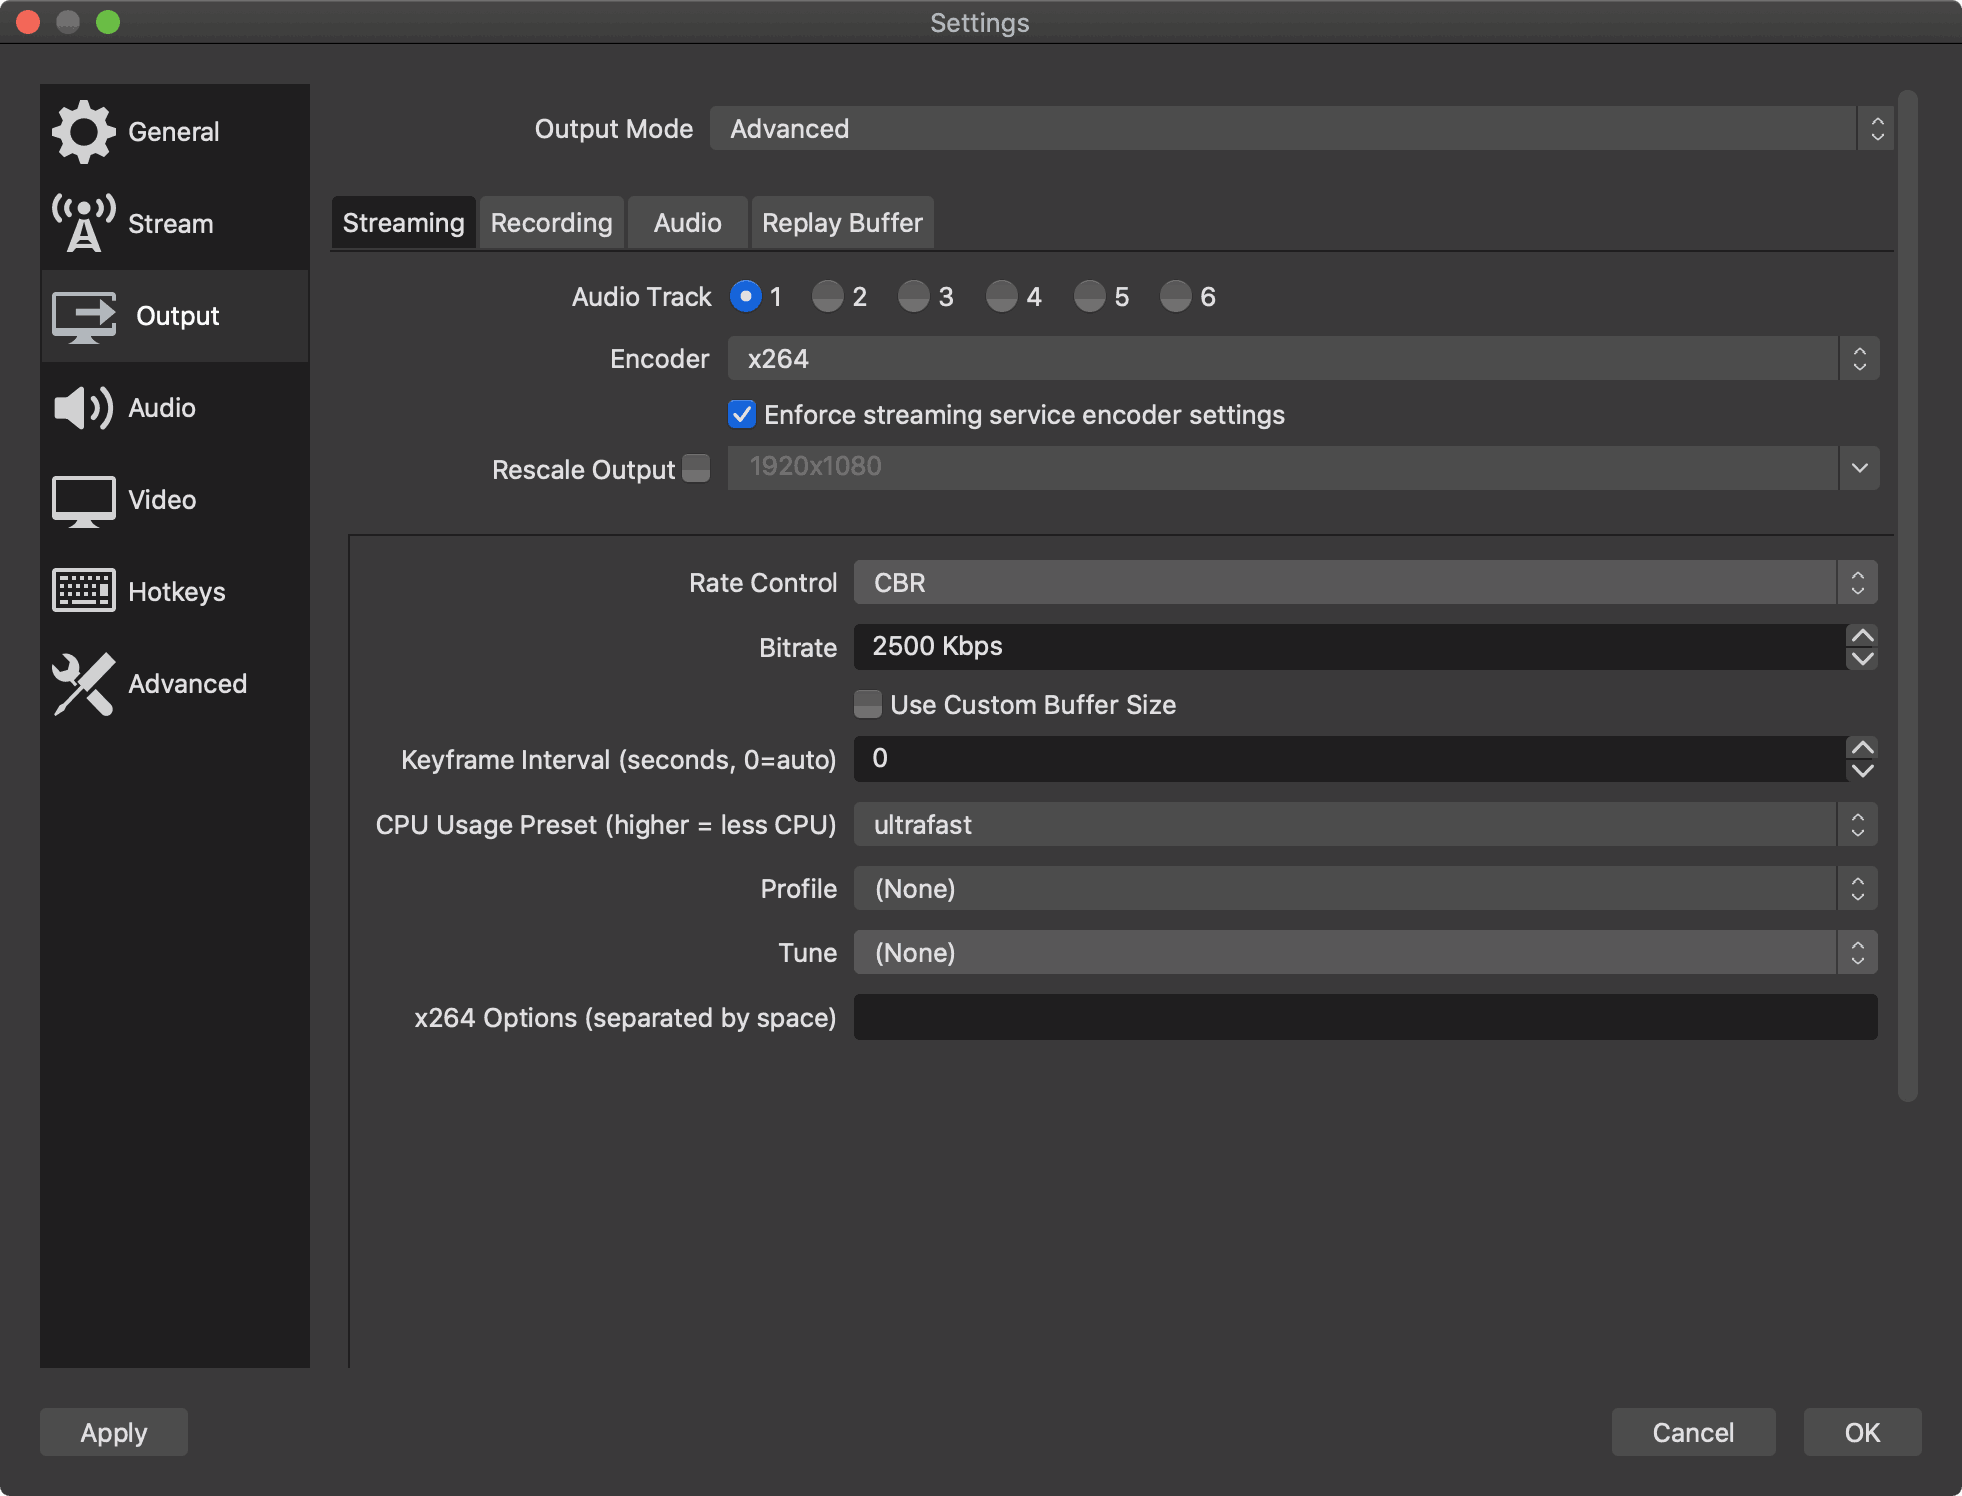
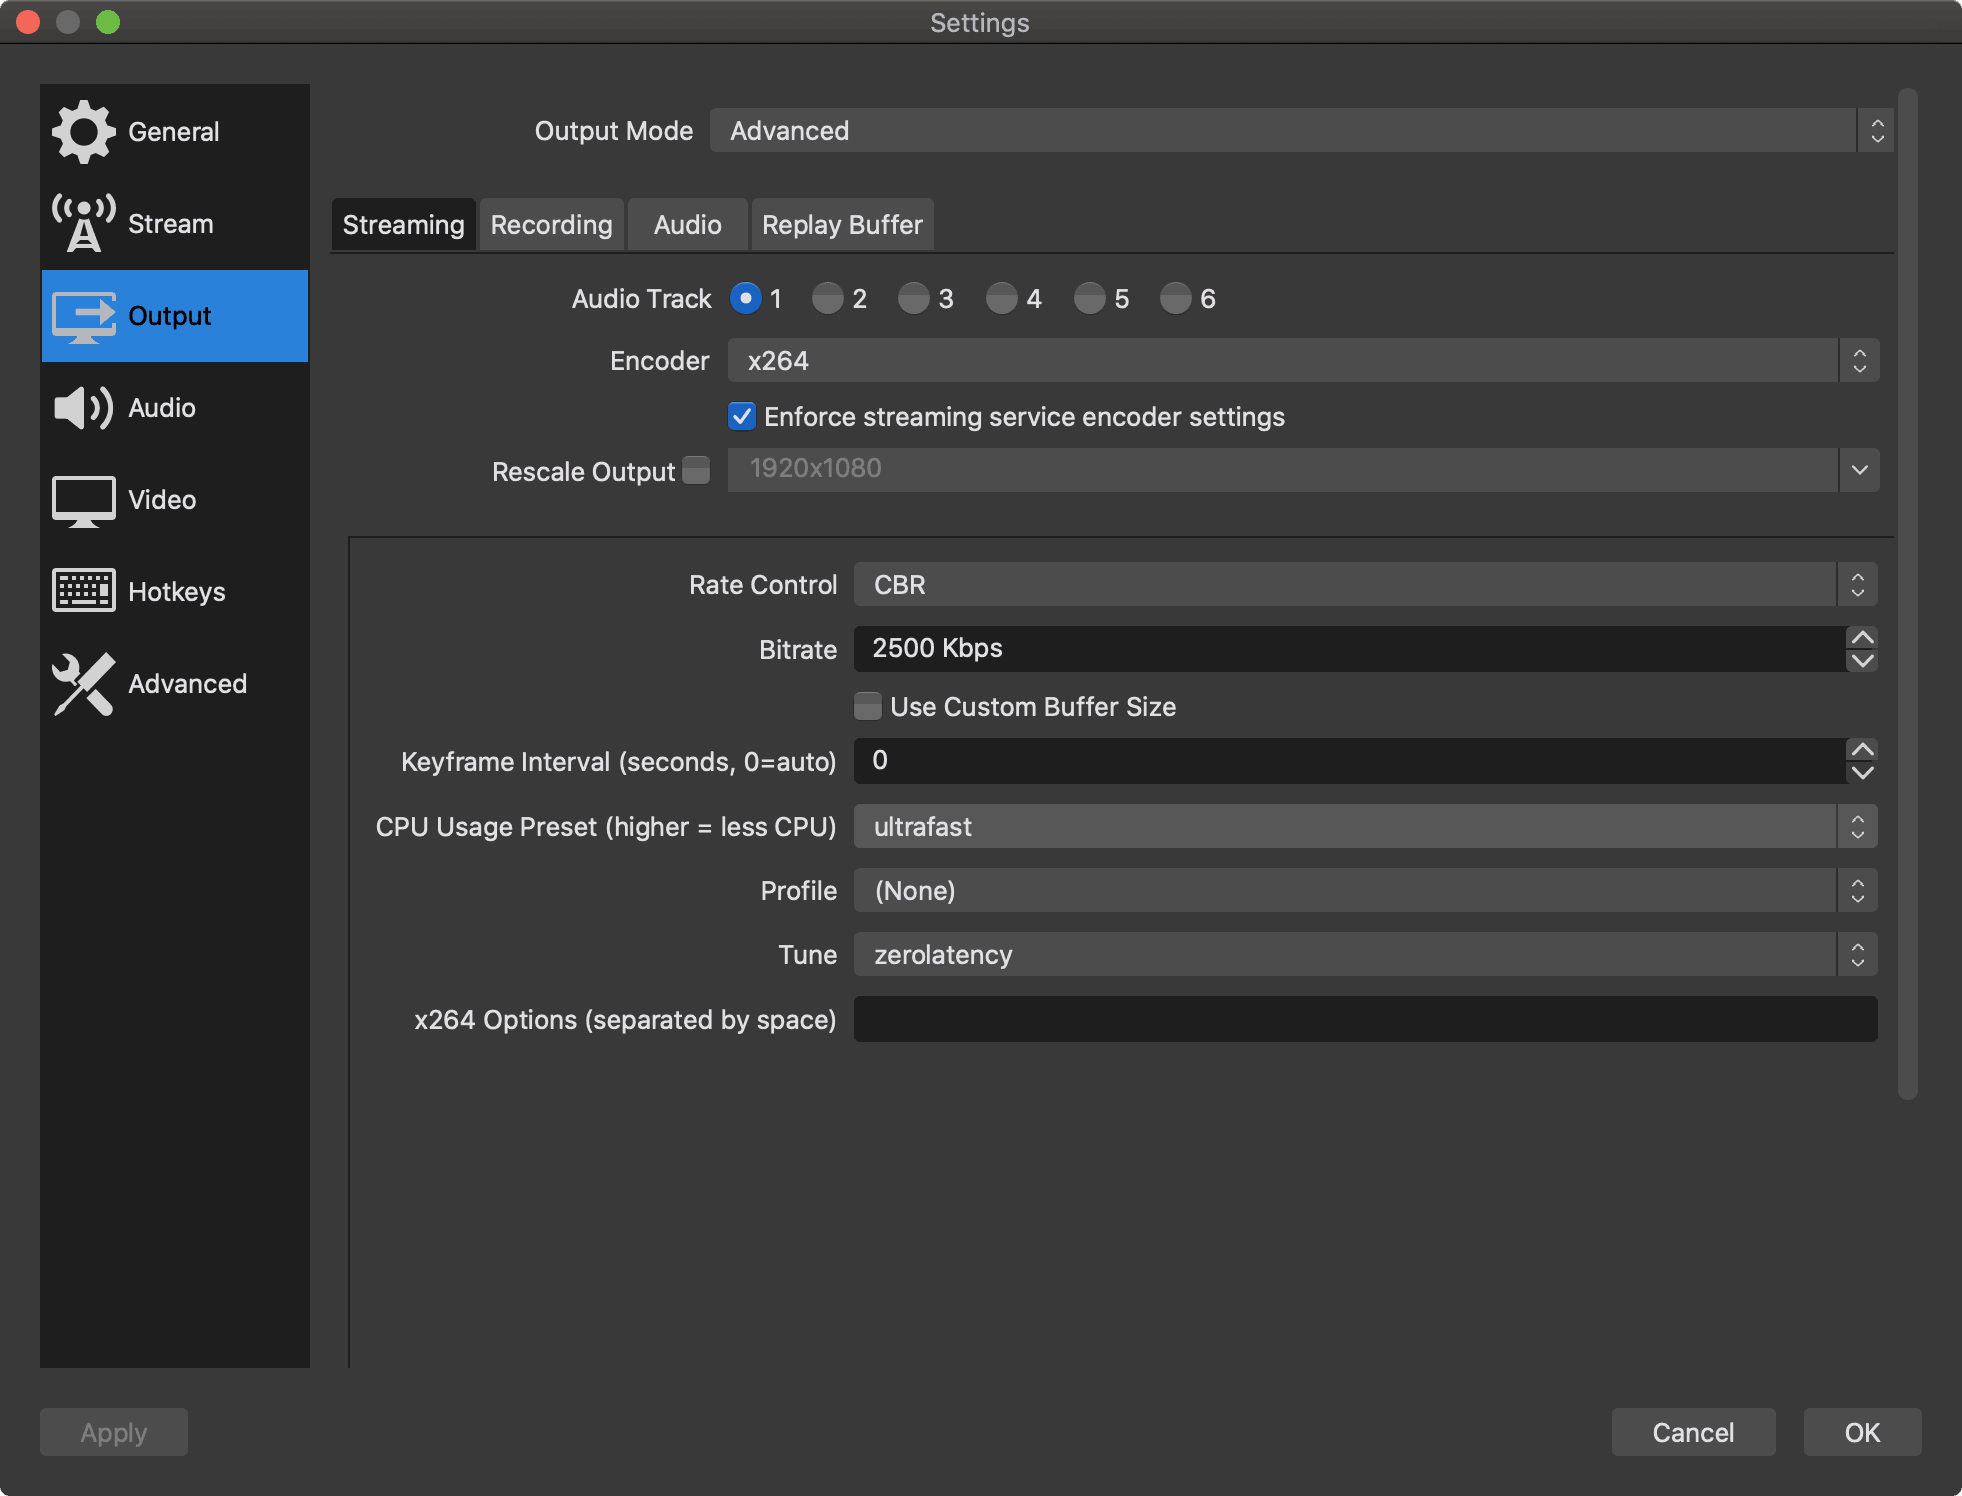
Updated x264 settings

diff --git a/streamers-guide.md b/streamers-guide.md
@@ -80,6 +80,8 @@ For those comfortable with photo editing, this might feel a little awkward, but 
 
 You should be using a setting of veryfast, superfast, or ultrafast. The higher the setting the better performance. But, the lower the quality too. This is device-specific; testing is required. "The image may look a bit blockier or pixelated, but you will be able to retain your resolution/fps."
 
+There is also a worthwhile **Tune** option in the Output settings. If you're streaming content, configuring the x264 Tune option to `zerolatency` should help performance.
+
 ![Settings -> Output -> Streaming](img/settings-output-streaming.png)
 
 #### Sound Settings
